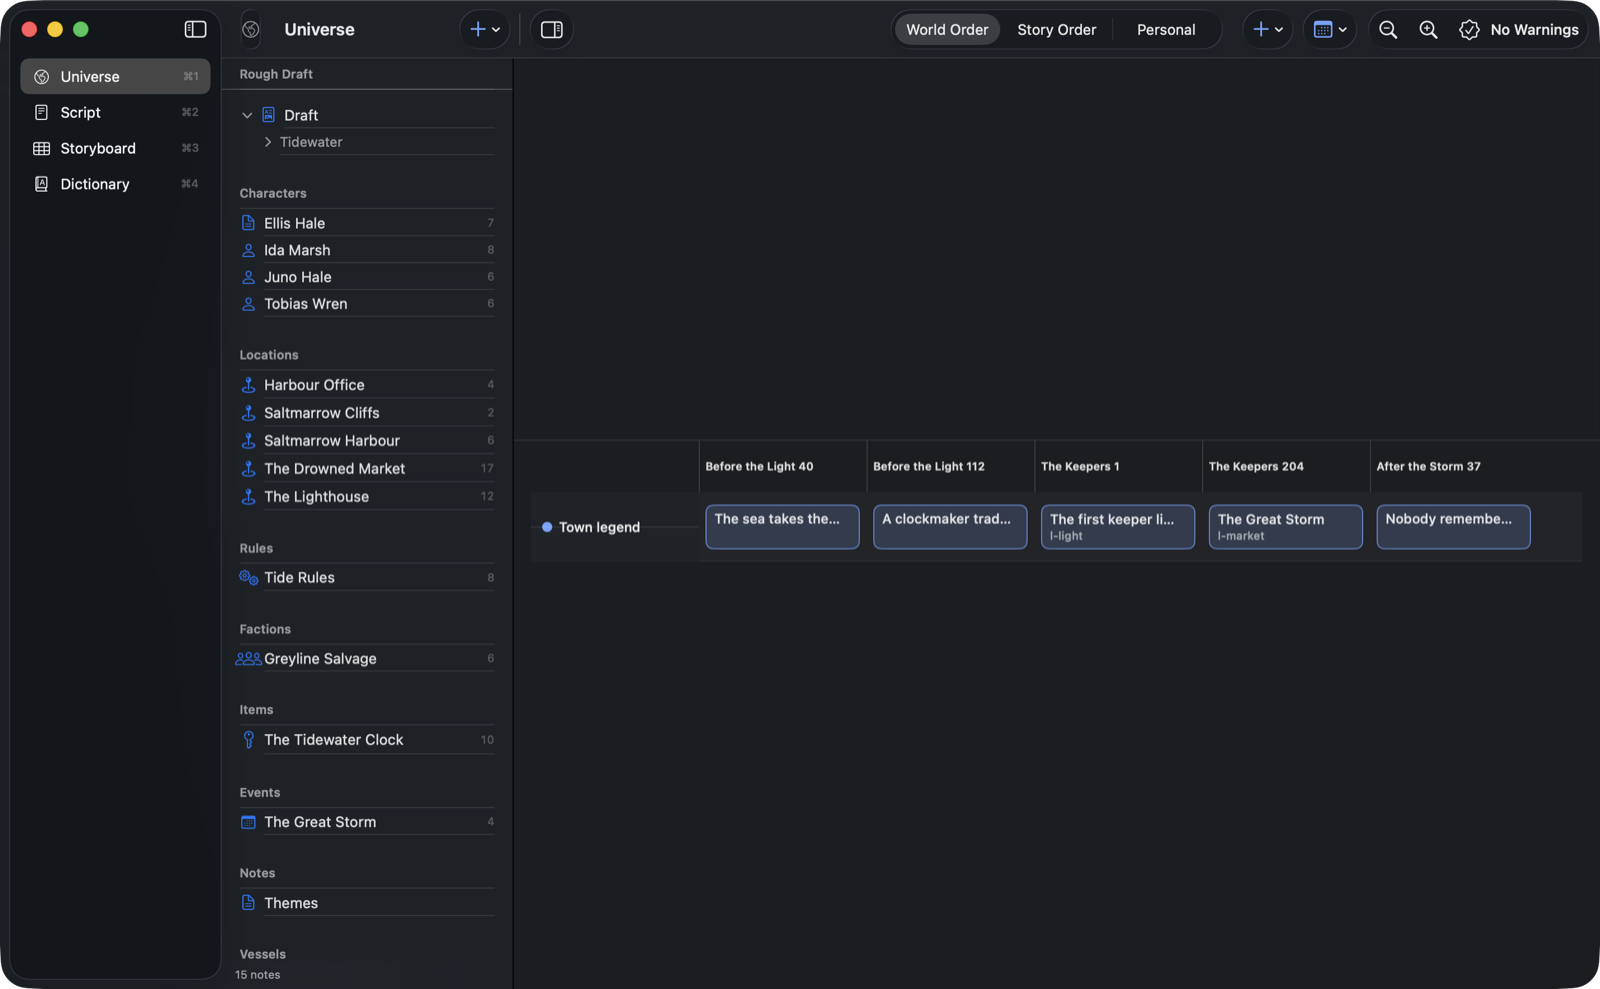
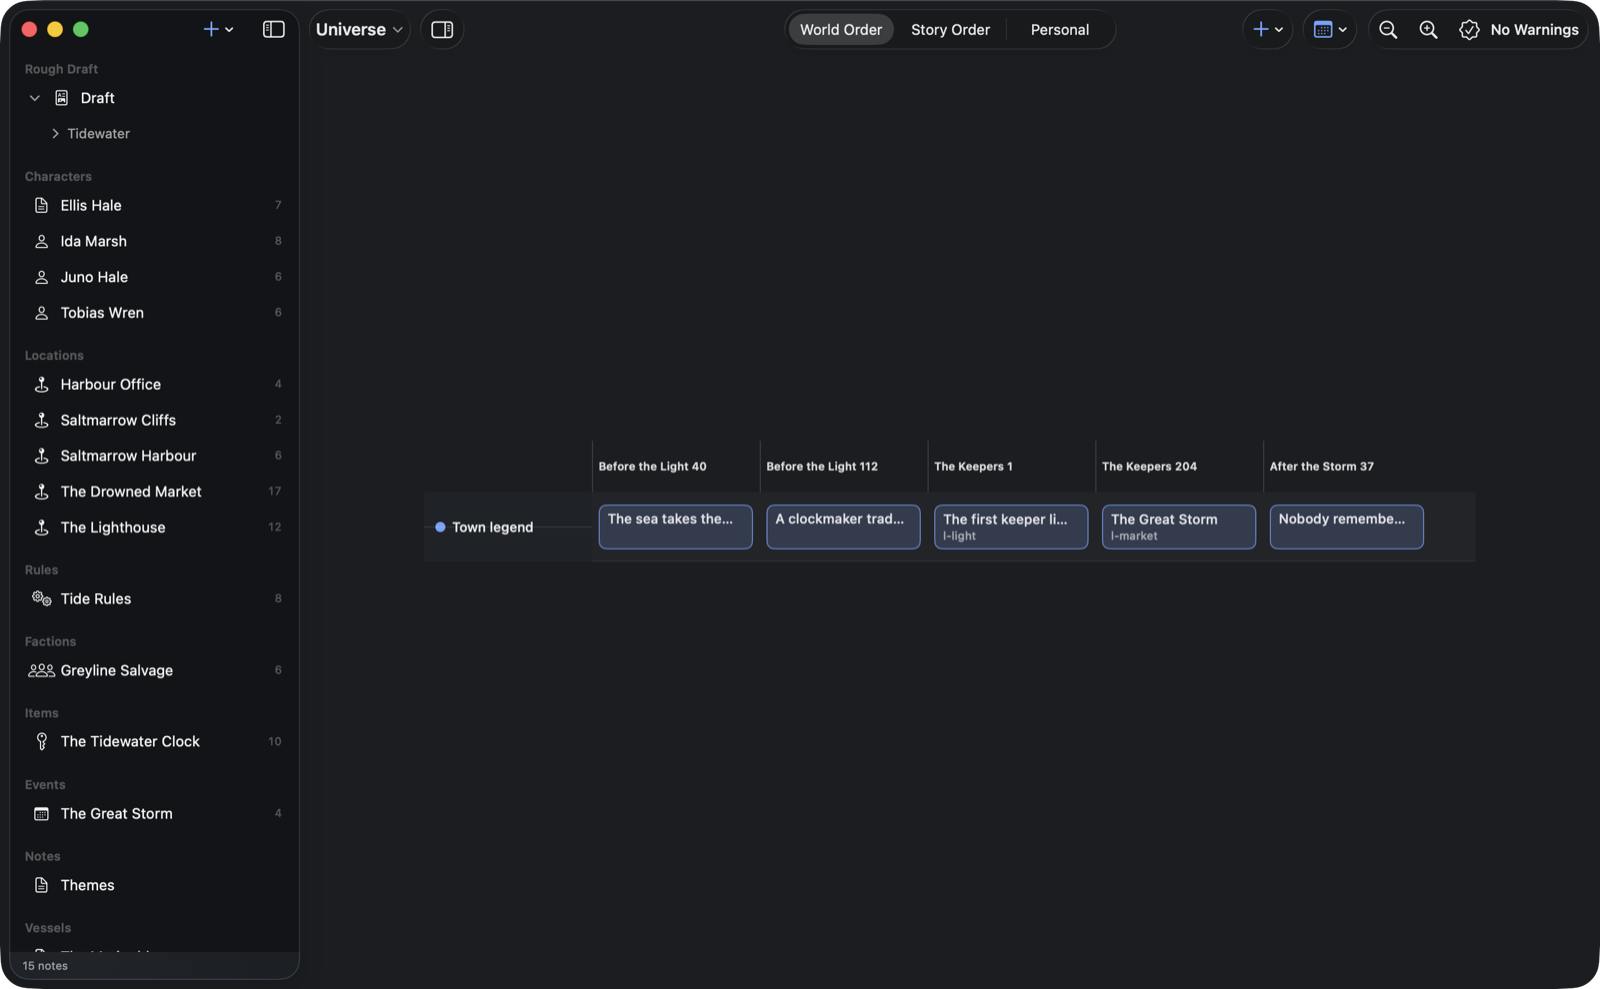
Areas from the title menu instead of a sidebar column

diff --git a/Packages/SlateUI/Sources/SlateUI/Project/ProjectWindow.swift b/Packages/SlateUI/Sources/SlateUI/Project/ProjectWindow.swift
@@ -104,7 +104,6 @@ struct ProjectContent: View {
     @State private var session: ProjectSession
     @Environment(SlateAppModel.self) private var model
     @State private var columns: NavigationSplitViewVisibility = .all
-    @AppStorage(Shortcuts.overridesKey) private var shortcutOverrides = ""
     /// What focus mode hid, to put back when it ends.
     @State private var beforeFocus: (columns: NavigationSplitViewVisibility, margin: Bool, inspector: Bool)?
 
@@ -115,15 +114,8 @@ struct ProjectContent: View {
 
     var body: some View {
         @Bindable var session = session
+        // The area (Universe, Script…) is picked from the title menu, not a column.
         NavigationSplitView(columnVisibility: $columns) {
-            List(ProjectArea.allCases, selection: $session.area) { area in
-                Label(area.title, systemImage: area.systemImage)
-                    .badge(Text(SearchShortcut(Shortcuts.text("area." + area.rawValue, overrides: Shortcuts.overrides(shortcutOverrides),
-                                                              search: ""))?.display ?? "").foregroundStyle(.tertiary))
-                    .tag(area)
-            }
-            .navigationSplitViewColumnWidth(min: 170, ideal: 190)
-        } content: {
             Group {
                 switch session.area ?? .script {
                 case .script: ScriptNavigator(workspace: session.script, session: session)
@@ -200,13 +192,10 @@ struct ProjectContent: View {
                 .transition(.opacity)
             }
         }
+        .toolbar(removing: .title)
         .toolbar {
-            // The area's icon (the same one as in the sidebar), left of its title.
             ToolbarItem(placement: .navigation) {
-                Image(systemName: (session.area ?? .script).systemImage)
-                    .font(.title3)
-                    .foregroundStyle(.secondary)
-                    .accessibilityHidden(true)
+                AreaSwitcher(area: $session.area)
             }
         }
         .onChange(of: store.files) { session.spotlight?.reload() }
@@ -406,5 +395,38 @@ struct AreaPlaceholder: View {
         } description: {
             Text(area.comingIn + "\nFor now, pick a file to view and edit it as plain text.")
         }
+    }
+}
+
+/// The window's title: the current area's name. Clicking it lists every
+/// area, with its icon, the current one ticked. ⌘1–⌘4 still switch.
+struct AreaSwitcher: View {
+    @Binding var area: ProjectArea?
+
+    var body: some View {
+        let current = area ?? .script
+        Menu {
+            ForEach(ProjectArea.allCases) { option in
+                Toggle(isOn: Binding(get: { option == current }, set: { if $0 { area = option } })) {
+                    Label(option.title, systemImage: option.systemImage)
+                }
+            }
+        } label: {
+            HStack(spacing: 5) {
+                Text(current.title)
+                    .font(.title3.weight(.semibold))
+                Image(systemName: "chevron.down")
+                    .font(.caption.weight(.semibold))
+                    .foregroundStyle(.secondary)
+            }
+            .padding(.horizontal, 6)
+            .contentShape(.rect)
+        }
+        .menuStyle(.button)
+        .buttonStyle(.plain)
+        .menuIndicator(.hidden)
+        .fixedSize()
+        .help("Switch area (⌘1–⌘4)")
+        .accessibilityLabel("Area: \(current.title)")
     }
 }

diff --git a/SPEC.md b/SPEC.md
@@ -169,7 +169,7 @@ The home screen is a library of project folders that can live anywhere on disk; 
 | A folder of Markdown (e.g. an Obsidian vault) | Copied into `universe/`; `[[links]]` kept, `.canvas` files kept     |
 | Plain `.txt` / `.md` screenplay               | Parsed with the Fountain rules                                      |
 
-Inside a project, the window has a sidebar (Universe, Script, Storyboard, Dictionary), the main editor, and an optional inspector on the right. The toolbar shows the area's icon (the one in the sidebar: globe for Universe, book for Dictionary…) to the left of the area's title; the project's folder path is not shown (Show in Finder and the library card have it).
+Inside a project, the window has four areas (Universe, Script, Storyboard, Dictionary). There is no column listing them: the window's title is the current area's name with a ▾, and clicking it opens a menu of the four areas, each with its icon, the current one ticked. ⌘1–⌘4 (View menu, remappable) switch too. Below the title: the area's own sidebar (notes, scenes, boards or words), the main editor, and an optional inspector on the right. The project's folder path is not shown (Show in Finder and the library card have it).
 
 **Shortcuts** — every menu command's shortcut is listed in Settings › Shortcuts, grouped by menu, with a filter. Click one and press new keys to remap it; a shortcut already used by another command or by macOS is refused with a note naming it. Each can be reset, set to none, or all reset at once. Changes apply to the menu bar immediately and are stored in `UserDefaults` (`shortcuts.overrides`, JSON of command → keys; Search keeps `search.shortcut`). Editor keys (Tab cycling, ⌘B/⌘I, zoom in canvas/map/timeline) are listed as built in. Defaults include ⌘K search, ⇧⌘F search text, ⌥⌘K insert link, ⇧⌘O jump to scene, ⇧⌘D dictate, ⌘1–⌘4 areas.
 
@@ -488,7 +488,7 @@ Any token a theme leaves out falls back to its `base`, so a custom theme can be 
 
 Thirteen milestones, ordered so the script is writable and printable early and the visual tools come after the file foundations are solid. Each ends with a "done when" you can check yourself.
 
-1. **Foundation** — XcodeGen project, three packages, ProjectStore, FileWatcher, ThemeEngine with Light/Dark, home screen with New/Open/Remove, project window with the four-area sidebar (empty views).
+1. **Foundation** — XcodeGen project, three packages, ProjectStore, FileWatcher, ThemeEngine with Light/Dark, home screen with New/Open/Remove, project window with the four areas (empty views).
    - Done when: you can create a project, see its folder in Finder, edit a file there and watch the app reload it.
 2. **Script editor** — ScriptParser with unit tests, TextKit 2 editor with live element formatting, Tab/Return element cycling, scene IDs, scene navigator, character autocomplete, spell check.
    - Done when: a 10-page script can be typed without touching the mouse and looks right in Draft view.

diff --git a/DECISIONS.md b/DECISIONS.md
@@ -242,4 +242,5 @@ Every default in SPEC.md › Open decisions is kept: the name **Slate**; scene h
 | 211 | License: CC BY-NC-SA 4.0 (official legal code, unmodified, in `LICENSE`); third-party licenses kept in `THIRD_PARTY_NOTICES.md`. | Your choice: copies must stay shared under the same terms and nobody may charge for them. Not OSI "open source", and CC doesn't recommend it for software; you accepted that trade-off. |
 | 212 | Whisper is an optional download, not part of the app: `whisper.framework` is opened with `dlopen` through a small C loader (`CWhisper`) only when Whisper transcribes. Settings › Voice downloads `whisper-framework-<n>.zip` from the `whisper-<n>` release, checks a SHA-256 built into Slate, and unpacks it into Application Support. Replaces 203's linked framework. | Your request: no forced install. It also fixed 0.9.0-beta.3, which couldn't start (the linked framework was refused by library validation). |
 | 213 | Ad-hoc builds (releases without Developer ID, and Debug) have no hardened runtime; Developer ID builds keep it, and the Whisper download must then be signed with the same Developer ID (`SIGNING_IDENTITY` in `Scripts/publish-whisper.sh`). Library validation is never turned off. `Scripts/release.sh` now launches the packaged app and fails if it quits. | The hardened runtime only matters for notarization; turning off library validation for everyone would weaken every build. |
+| 214 | The column listing the four areas is gone; the window title is an area menu (name + ▾; the menu shows each area's icon and name, current one ticked). The title has no icon; ⌘1–⌘4 stay. Replaces 209's icon. | Your request: one less column, and the area is chosen where its name is shown. |
 

diff --git a/CHANGES.md b/CHANGES.md
@@ -1,5 +1,10 @@
 # Changes
 
+## Areas from the title menu (2026-11-23)
+
+- **No more area column.** The window's title (**Universe ▾**) opens a menu of Universe, Script, Storyboard and Dictionary, each with its icon, the current one ticked. The title itself has no icon. ⌘1–⌘4 still switch.
+- The area's own list (notes, scenes, boards, words) is now the window's sidebar. README screenshots retaken.
+
 ## Whisper is an optional download; beta.3 launch crash fixed (2026-11-23)
 
 - **0.9.0-beta.3 couldn't start.** The app linked `whisper.framework`, and the hardened runtime refused it because the app and framework were ad-hoc signed separately ("different Team IDs").

diff --git a/README.md b/README.md
@@ -287,6 +287,10 @@ Fixtures/Fountain       Reference scripts and PDFs from fountain.io
 Fixtures/Snapshots      Golden page layouts
 ```
 
+## Moving around
+
+- **Areas:** click the title at the top of a project window (**Universe ▾**) to switch between Universe, Script, Storyboard and Dictionary, or press ⌘1–⌘4. Each area's sidebar holds its notes, scenes, boards or words.
+
 ## Voice
 
 - **Dictate (⇧⌘D)** in the script, a note, the draft or the dictionary book. A panel at the cursor shows the level (and, with Apple, the words as you speak). Press ⇧⌘D again or Insert to put the text in; Esc cancels. It's one undo step.
